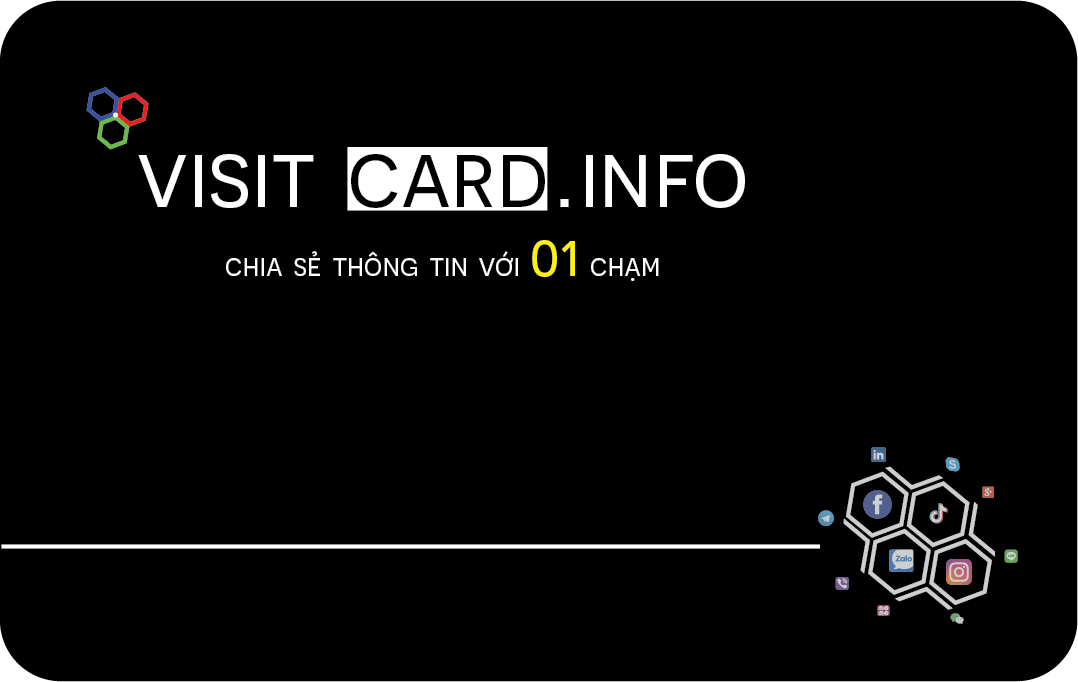
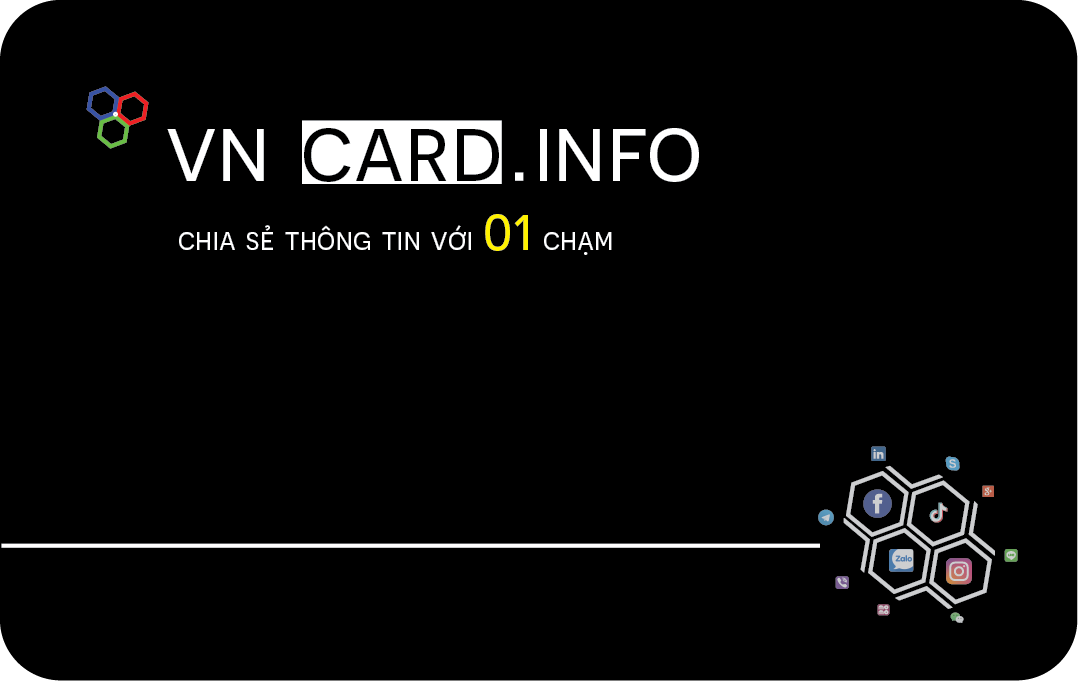
ok username khi mua hang

diff --git a/static/js/script.js b/static/js/script.js
@@ -1,4 +1,25 @@
 
+
+
+
+function show_help(){
+	//
+	Toastify({
+	  text: "Username là duy nhất của bạn trong hệ thống \n để định danh tài khoản của bạn\n cũng như dùng để đăng nhập hệ thống",
+	  duration: 6000,
+	  //destination: "#",
+	  newWindow: true,
+	  close: true,
+	  gravity: "top", // `top` or `bottom`
+	  position: "center", // `left`, `center` or `right`
+	  stopOnFocus: true, // Prevents dismissing of toast on hover
+	  style: {
+	    background: "linear-gradient(to right, #0CF749, #3DB0C9)",
+	  },
+	  //onClick: function(){} // Callback after click
+	}).showToast();
+	//
+}
 function formatNumber(num) {
         return num.toString().replace(/(\d)(?=(\d{3})+(?!\d))/g, '$1.')
  }
@@ -138,12 +159,99 @@ function order() {
 	var qty = $("#modal-qty").val()
 	var total = $("#modal-price").val()*1000
 	var username = $("#modal-username").val()
-
-	$.post("ajax_process/action_order.php",
+	
+	if (mobile.length<=9){
+		//
+		Toastify({
+		  text: "Nhập đầy đủ số điện thoại nhận hàng",
+		  duration: 6000,
+		  //destination: "#",
+		  newWindow: true,
+		  close: true,
+		  gravity: "top", // `top` or `bottom`
+		  position: "center", // `left`, `center` or `right`
+		  stopOnFocus: true, // Prevents dismissing of toast on hover
+		  style: {
+		    background: "linear-gradient(to right, #F70C3E, #C9AD3D)",
+		  },
+		  //onClick: function(){} // Callback after click
+		}).showToast();
+		//	
+	}
+	else if (add.length <15){
+		//
+		Toastify({
+		  text: "Nhập đầy đủ địa chỉ nhận hàng",
+		  duration: 6000,
+		  //destination: "#",
+		  newWindow: true,
+		  close: true,
+		  gravity: "top", // `top` or `bottom`
+		  position: "center", // `left`, `center` or `right`
+		  stopOnFocus: true, // Prevents dismissing of toast on hover
+		  style: {
+		    background: "linear-gradient(to right, #F70C3E, #C9AD3D)",
+		  },
+		  //onClick: function(){} // Callback after click
+		}).showToast();
+		//
+	}
+	else{
+		$("#modal_confirm_so").modal('show');
+		$.post("ajax_process/action_order.php",
 		{mobile:mobile,add:add,note:note,cus_name:cus_name,card_type:card_type,textcolor:textcolor,qty:qty,total:total,username:username},
 		function(data){
-	})
+		})
+	}
+	
+	
+	
 
+}
+function show_modal_order() {
+	// $('#modal_order').modal('toggle');
+	// $('#myModal').modal('show');
+	// $('#myModal').modal('hide');
+	var username = $("#input-username").val()
+	if (trung_username == true) {
+		//
+		Toastify({
+		  text: "Username này đã có người sử dụng",
+		  duration: 6000,
+		  //destination: "#",
+		  newWindow: true,
+		  close: true,
+		  gravity: "top", // `top` or `bottom`
+		  position: "center", // `left`, `center` or `right`
+		  stopOnFocus: true, // Prevents dismissing of toast on hover
+		  style: {
+		    background: "linear-gradient(to right, #F70C3E, #C9AD3D)",
+		  },
+		  //onClick: function(){} // Callback after click
+		}).showToast();
+		//
+	};
+	if (username.length <3){
+		//
+		Toastify({
+		  text: "Username: 3 - 25 kí tự, KHÔNG DÙNG (khoảng trắng, kí tự đặc biệt, có dấu)",
+		  duration: 6000,
+		  //destination: "#",
+		  newWindow: true,
+		  close: true,
+		  gravity: "top", // `top` or `bottom`
+		  position: "center", // `left`, `center` or `right`
+		  stopOnFocus: true, // Prevents dismissing of toast on hover
+		  style: {
+		    background: "linear-gradient(to right, #F70C3E, #C9AD3D)",
+		  },
+		  //onClick: function(){} // Callback after click
+		}).showToast();
+		//
+	}
+	else if(trung_username == false){
+		$('#modal_order').modal('show');
+	}
 }
 function color_name(color) {
 	$(".cus-name").css({"color":color})
@@ -193,12 +301,12 @@ function show_front() {
 }
 
 // change_username
+var trung_username = false
 function change_username(value) {
 	$("#username").html("https://vncard.info/")
 	$("#username").append(value)
 	var slug = value
 	$.post("ajax_process/edit.php",{slug:slug},function(data){
-		console.log(data)
 		if (data == 2){
 			//
 			Toastify({
@@ -217,8 +325,10 @@ function change_username(value) {
 			}).showToast();
 			//
 			$("#username").css({"color":"red"})
+			// $("#btn-order").css({"display":"none"})
 		};
 		if (data == 0){
+			trung_username = true
 			//
 			Toastify({
 			  text: "username này đã có người sử dụng",
@@ -236,26 +346,11 @@ function change_username(value) {
 			}).showToast();
 			//
 			$("#username").css({"color":"red"})
+			// $("#btn-order").css({"display":"none"})
 		};
 		if (data == 1){
-			console.log(data)
+			trung_username = false
 			$("#username").css({"color":"green"})
-			//
-			Toastify({
-			  text: "OK! có thể sử dụng username này",
-			  duration: 6000,
-			  //destination: "#",
-			  newWindow: true,
-			  close: true,
-			  gravity: "top", // `top` or `bottom`
-			  position: "center", // `left`, `center` or `right`
-			  stopOnFocus: true, // Prevents dismissing of toast on hover
-			  style: {
-			    background: "linear-gradient(to right, #0CF71D, #4B17F6)",
-			  },
-			  //onClick: function(){} // Callback after click
-			}).showToast();
-			//
 		};
 	})
 }

diff --git a/includes/menu.html b/includes/menu.html
@@ -6,7 +6,7 @@
             <nav class="main-nav">
                 <!-- ***** Logo Start ***** -->
                 <a href="index.php" class="logo">
-                    <h4>VisitCard.info <img src="static/images/logo.png" alt=""></h4>
+                    <h4>VnCard.info <img src="static/images/logo.png" alt=""></h4>
                 </a>
                 <!-- ***** Logo End ***** -->
                 <!-- ***** Menu Start ***** -->
@@ -24,7 +24,7 @@
                     <li id="reg" class="scroll-to-section"><a href="register.php"><i class="bi bi-pencil-square"></i>
                         Register</i></a></li>
                     <li class="scroll-to-section">
-                        <div class="main-blue-button"><a href="#">Đặt in thẻ</a></div>
+                        <div class="main-blue-button"><a href="#order">Đặt in thẻ</a></div>
                     </li>
                 </ul>
                 <a class='menu-trigger'>

diff --git a/static/css/style.css b/static/css/style.css
@@ -1,6 +1,13 @@
 
 
+.bi-question-circle{
+    cursor: pointer;
+}
 
+.float-right{
+    float: right;
+    text-align: left;
+}
 
 #username{
     color: green;
@@ -91,12 +98,16 @@ h3 del{
     
 }
 
-h3 span{
+h3 span#color-text{
     color: #989898;
-    font-size: 2rem;
+    font-size: 1rem;
+    float: right;  
+}
+h3 span#freeship{
+    
+    font-size: 1.8rem;
     text-align: center;
     
-
 }
 p.cus-name{
     color: white;

diff --git a/index.php b/index.php
@@ -10,7 +10,7 @@
 
 <head>
 <?php include('includes/head.html');?>
-<title>SmartCard | Home</title>
+<title>VN Card | Home</title>
 </head>
 
 <body>
@@ -58,7 +58,7 @@
                   </div>
                   
                   <div class="col-lg-12">
-                    <h2>Thẻ cá nhân thông minh 01 chạm</h2>
+                    <h2>VnCard - Thẻ cá nhân thông minh của người Việt</h2>
                   </div>
                   
                 </div>
@@ -164,7 +164,7 @@
         
         <div class="col-lg-6 align-self-center wow fadeInRight mb-5" data-wow-duration="1s" data-wow-delay="0.5s">
           <div class="section-heading">
-            <h2>TÍNH NĂNG <em>ƯU VIỆT</em> KHI SỬ DỤNG THẺ VISITCARD THÔNG MINH</h2>
+            <h2>TÍNH NĂNG <em>ƯU VIỆT</em> KHI SỬ DỤNG THẺ VNCARD THÔNG MINH</h2>
           </div>
           <p>Chạm thẻ là có thông tin, nhanh chóng tiện lợi & chuyên nghiệp với công nghệ 4.0 sẽ giúp bạn "UY TÍN" hơn trong mắt bạn bè và đối tác.</p>
           <ul >
@@ -192,7 +192,7 @@
   <div class="container">
       <div class="row">
         <div class="col-12 mb-3">
-          <h2>ĐẶT MUA THẺ</h2>
+          <h2 id="order">ĐẶT MUA THẺ</h2>
         </div>
         
         <div class="col-12 col-lg-6 text-left img-card">
@@ -204,6 +204,7 @@
           </div>
           <p class="cus-name">Tên của bạn...</p>
           <div class="radio mt-0">
+            <label for="">Hình minh họa: </label>
             <label for="back">Mặt trước</label>
             <input  onclick="show_front()" type="radio" checked name="card" id="back" value="back">
             <label for="front">Mặt sau</label>
@@ -223,23 +224,24 @@
               <li><img onclick="type('type4')" id="type4" src="static/images/cardtype/cardtype-4-f.png" alt=""> <p>Thiết kế theo yêu cầu</p></li>
             </ul>
           </div>
-          <h3 class="mt-1">Tên in trên thẻ <span> Màu chữ: <input type="color" id="input-textcolor" onchange="color_name(this.value)">  (30 kí tự)</span> <input class="form-control" onkeyup="change_cusname(this.value)" type="text"  placeholder="Nhập tên của bạn" id="input-cus-name"></h3>
-          <h6 class="mt-2" id="username">
+          <h3 class="mt-1 mb-3">Tên in trên thẻ <span id="color-text"> Màu chữ: <input type="color" id="input-textcolor" onchange="color_name(this.value)" value="#fffFFF">  (30 kí tự)</span> <input class="form-control" onkeyup="change_cusname(this.value)" type="text"  placeholder="Nhập tên của bạn" id="input-cus-name"></h3>
+          <span class="mt-3" id="username">
             https://vncard.info/
-          </h6>
+          </span><span class="float-right"><i class="bi bi-question-circle" onclick="show_help()" title="username dùng để đăng nhập"></i></span>
           <h3>
             <input class="form-control" onchange="change_username(this.value)" id="input-username" type="text" placeholder="Username">
           </h3>
           <h3 class="mt-4">Đơn giá <input class="input-qty" hidden id="input-qty" value="1" min="1" max="1000" type="number">:<input class="input-qty" readonly id="price-card" type="number" value="150000"> đ <del>199.000 đ </del>
           </h3>
           <h3 class="text-center">
-            <span>(Free ship toàn quốc)</span>
+            <span id="freeship">(Free ship toàn quốc)</span>
           </h3>
           <h3 class="mt-4 text-center">
             <button 
               class="btn btn-success" 
-              data-bs-toggle="modal"
-              data-bs-target="#modal_order">Đặt mua
+              id="btn-order"
+              onclick="show_modal_order()"
+              >Đặt mua
             </button>
           </h3>    
         </div>
@@ -256,17 +258,17 @@
         <table class="table  table-order">
           <tr>
             <td>Điện thoại *</td>
-            <td><input class="form-control" id="modal-mobile" type="text"></td>
+            <td><input class="form-control" id="modal-mobile" type="tel" placeholder="Nhập SĐT nhận hàng"></td>
           </tr>
           <tr>
             <td>Địa chỉ nhận hàng *</td>
             <td>
-              <textarea class="form-control" id="modal-add" rows="4"></textarea>
+              <textarea class="form-control" id="modal-add" rows="4" placeholder="Nhập đầy đủ Tên Tỉnh/TP, Quận/Huyện, Phường/Xã, tên đường, số nhà..."></textarea>
           </tr>
           <tr>
             <td>Ghi chú</td>
             <td>
-              <textarea class="form-control" id="modal-note" rows="3"></textarea>
+              <textarea class="form-control" id="modal-note" rows="3" placeholder="Bạn có ghi chú gì cho chúng tôi không?"></textarea>
               <!-- <input class="form-control" id="modal-note" type="text"> -->
             </td>
           </tr>
@@ -324,10 +326,7 @@
         <button 
         type="button" 
         onclick="order()" 
-        data-bs-dismiss="modal"
         class="btn btn-primary"
-        data-bs-toggle="modal"
-        data-bs-target="#modal_confirm_so"
          >Xác nhận</button>
       </div>
     </div>

diff --git a/action_sendmail.php b/action_sendmail.php
@@ -24,7 +24,7 @@
     	$email_value = $_POST["email_value"];
     	$id_user = $_POST["id_user"];
     	$fullname = $_POST["fullname"];
-    	$subject = "Active Code From SmartCard";
+    	$subject = "Active Code From VnCard";
     	// fun random code
 	    
 	    
@@ -37,8 +37,8 @@
     	$content_mail .= "<h2>Mã kích hoạt của bạn là: <span style='color:blue'>$active_code </span></h2>";
     	$content_mail .= "<p>Coppy mã trên dán vào form tại website để xác nhận</p>";
     	$content_mail .= "<p><strong>Lưu ý: Chỉ email đã xác nhận mới có thể dùng để khôi phục tài khoản khi quên mật khẩu.</strong></p>";
-    	$content_mail .= "<p>Email được gửi từ website: https://smartcard.com</p>";
-    	$content_mail .= "<h3 style='color:red'>SmartCard | Chia sẻ thông tin chỉ 1 chạm </h3>";
+    	$content_mail .= "<p>Email được gửi từ website: https://vncard.com</p>";
+    	$content_mail .= "<h3 style='color:red'>VnCard | Chia sẻ thông tin chỉ 1 chạm </h3>";
 
     	$mail = new PHPMailer(true);
 
@@ -52,7 +52,7 @@
 			    $mail->SMTPSecure = PHPMailer::ENCRYPTION_SMTPS;            //Enable implicit TLS encryption
 			    $mail->Port       = 465;  //465 587
 			    $mail->isHTML(true);
-			    $mail->setFrom('smartcard@gmail.com', 'SmartCard');
+			    $mail->setFrom('vncard@gmail.com', 'VnCard');
 		        $mail->addAddress($_POST["email_value"], $fullname);     //Add a recipient
 			    $mail->Subject = $subject;
 		        $mail->Body    = $content_mail; 
@@ -83,7 +83,7 @@
             $new_pass = generateRandomString(5);
             $content_mail = "<h2>RESET PASSWORD</h2>";
             $content_mail .= "<h3>Mật khẩu mới của bạn là: $new_pass </h3>";
-            $content_mail .= "<p>Chúng tôi không thể biết mật khẩu cũ của bạn, mật khẩu đã được mã hóa, tuy nhiên bạn vẫn nên đổi mật khẩu mới sau khi đăng nhập lại.</p>";
+            $content_mail .= "<p>Chúng tôi không thể biết mật khẩu cũ của bạn, mật khẩu đã được mã hóa, dùng mật khẩu trên để đăng nhập, sau khi đăng nhập hãy đổi mật khẩu mới.</p>";
             // có email này trong hệ thống & status là đã confirm
             $mail = new PHPMailer(true);
             try {
@@ -95,7 +95,7 @@
 			    $mail->SMTPSecure = PHPMailer::ENCRYPTION_SMTPS;            //Enable implicit TLS encryption
 			    $mail->Port       = 465;  //465 587
 			    $mail->isHTML(true);
-			    $mail->setFrom('smartcard@gmail.com', 'SmartCard');
+			    $mail->setFrom('smartcard@gmail.com', 'VnCard');
 		        $mail->addAddress($email, $fullname);     //Add a recipient
 			    $mail->Subject = "Reset Password";
 		        $mail->Body    = $content_mail; 
